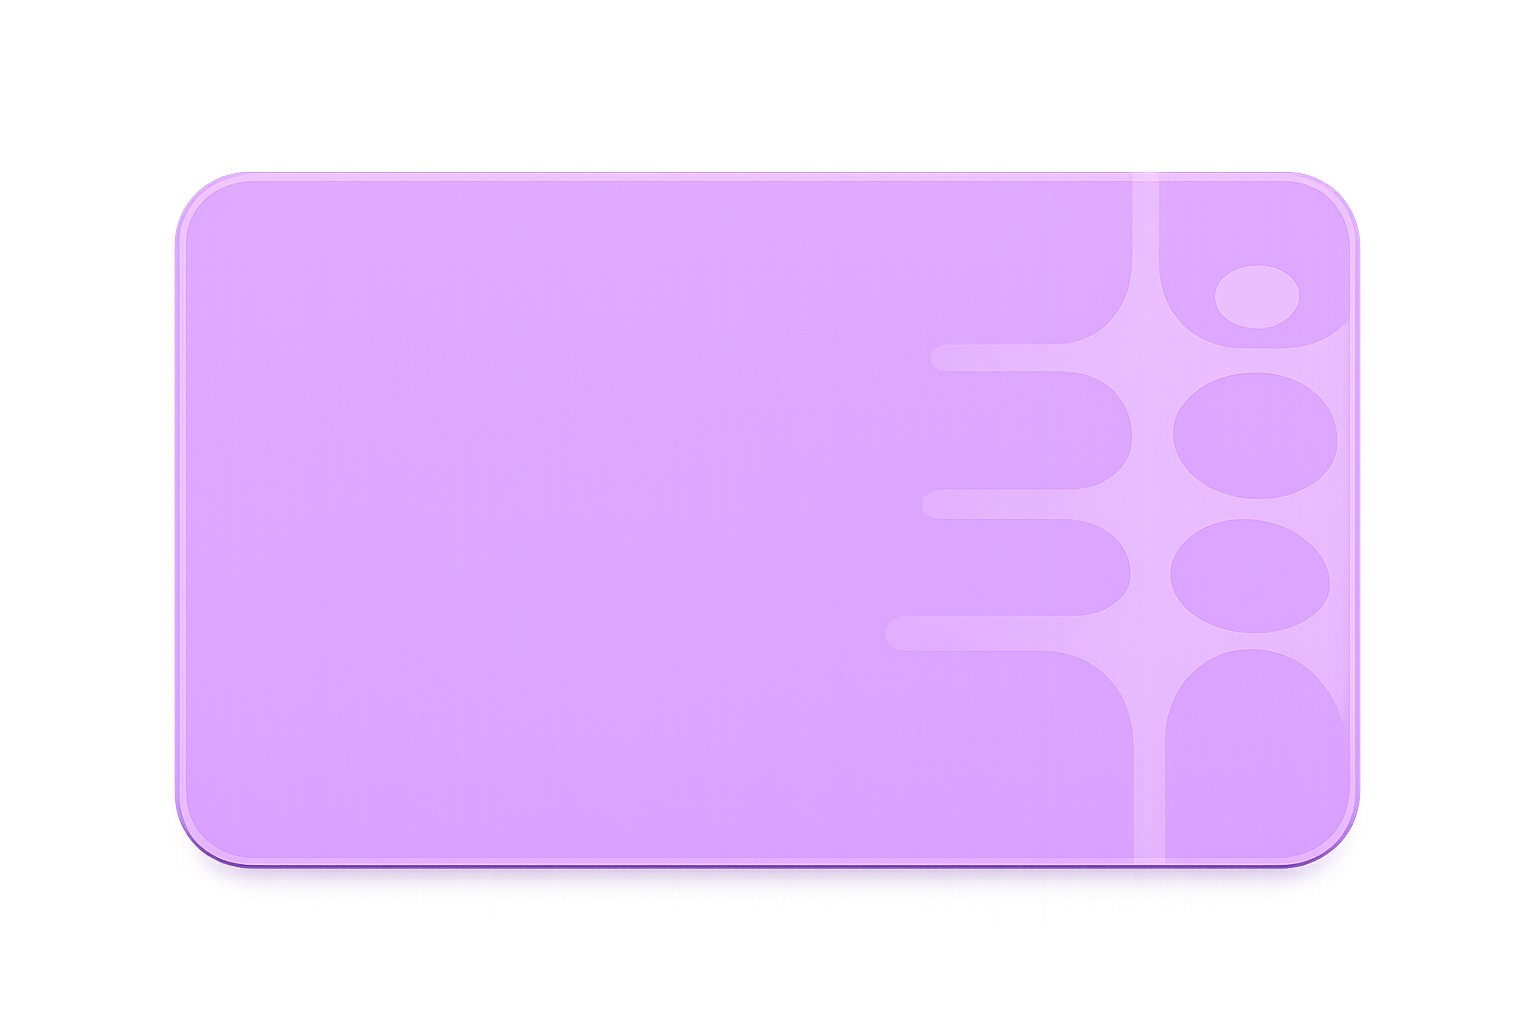
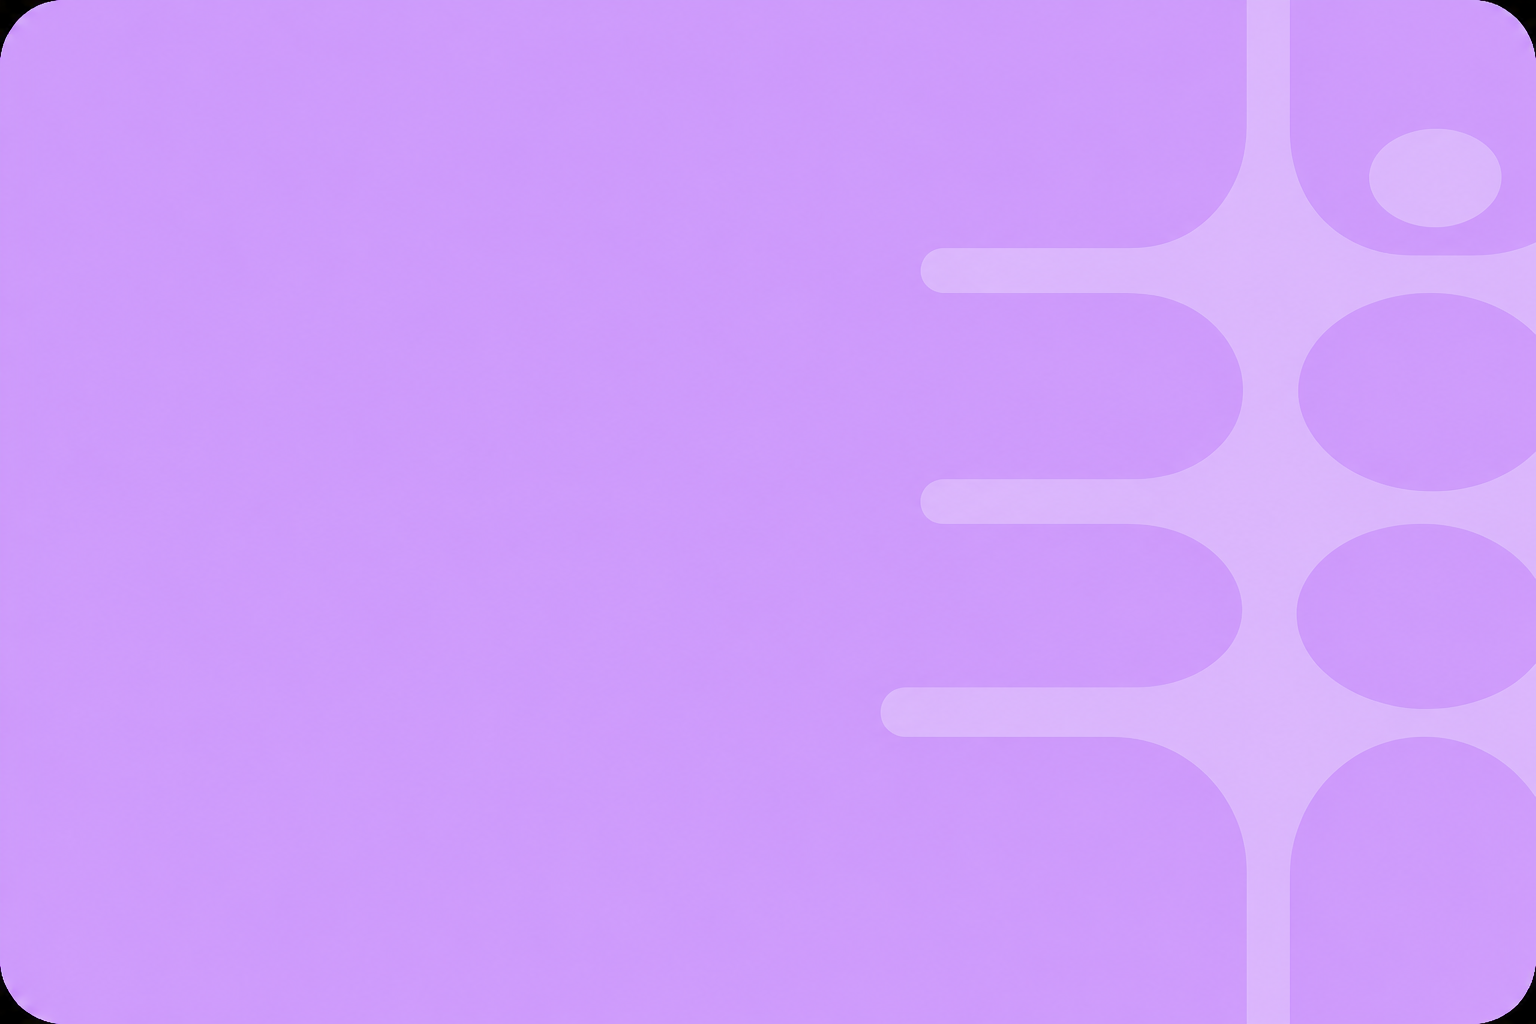
add: card background images

diff --git a/style.css b/style.css
@@ -110,21 +110,32 @@ textarea {
 }
 
 #flexbox {
-    margin: 30px auto;
-    max-width: 720px;
     display: flex;
-    justify-content: center;
     gap: 20px;
-    
+
+    width: 100%;
+    max-width: 900px;
+
+    margin: 30px auto;
 }
 
-.total-characters, .total-count, .total-sentence {
+.total-characters,
+.total-count,
+.total-sentence {
     flex: 1;
+
+    height: 140px;
+
     padding: 20px;
-    border-radius: 15px;
-    margin-bottom: 10px;
-    color: #F2F2F7;
+    border-radius: 16px;
+
+    background-size: cover;
+    background-position: center;
+    background-repeat: no-repeat;
+
+    box-sizing: border-box;
 }
+
 .total-characters h2, .total-count h2, .total-sentence h2 {
     font-size: 50px;
     color: #12131A;
@@ -139,13 +150,13 @@ textarea {
 }
 
 .total-characters {
-    background-color: #D3A0FA;
+    background-image: url("assets/bg-violeta.png");
 }
 
 .total-count {
-    background-color: #FF9F45;
+    background-image: url("assets/bg-naranja.png");
 }
 
 .total-sentence {
-    background-color: #FF7A59;
+    background-image: url("assets/bg-salmon.png");
 }